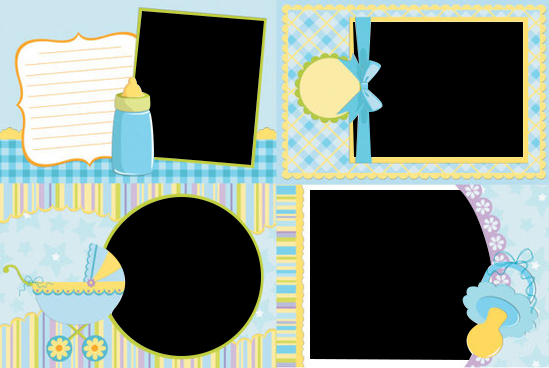
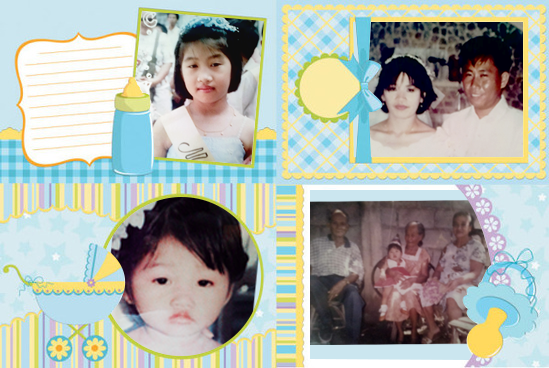
added photos in the picture frame

diff --git a/home.html b/home.html
@@ -187,11 +187,12 @@
 							that's left in our house because both of my parents have jobs.
 							I guess that's one of the reasons why I'm:</p>
 							<ul>
-								<li>Introvert</li>
-								<li>Silent</li>
-								<li>A little bit spoiled</li>
+								<li>introvert</li>
+								<li>silent</li>
+								<li>A bit spoiled</li>
 								<li>dependent</li>
 								<li>overthinker</li>
+								<li>sensitive</li>
 							</ul>
 						</div>
 					</div>

diff --git a/styles/style.css b/styles/style.css
@@ -362,6 +362,7 @@ div.gallery img {
   bottom: 0;
   left: 0;
   right: 0;
+  font-family: Tekton Pro;
   background-color: #008CBA;
   overflow: hidden;
   width: 100%;
